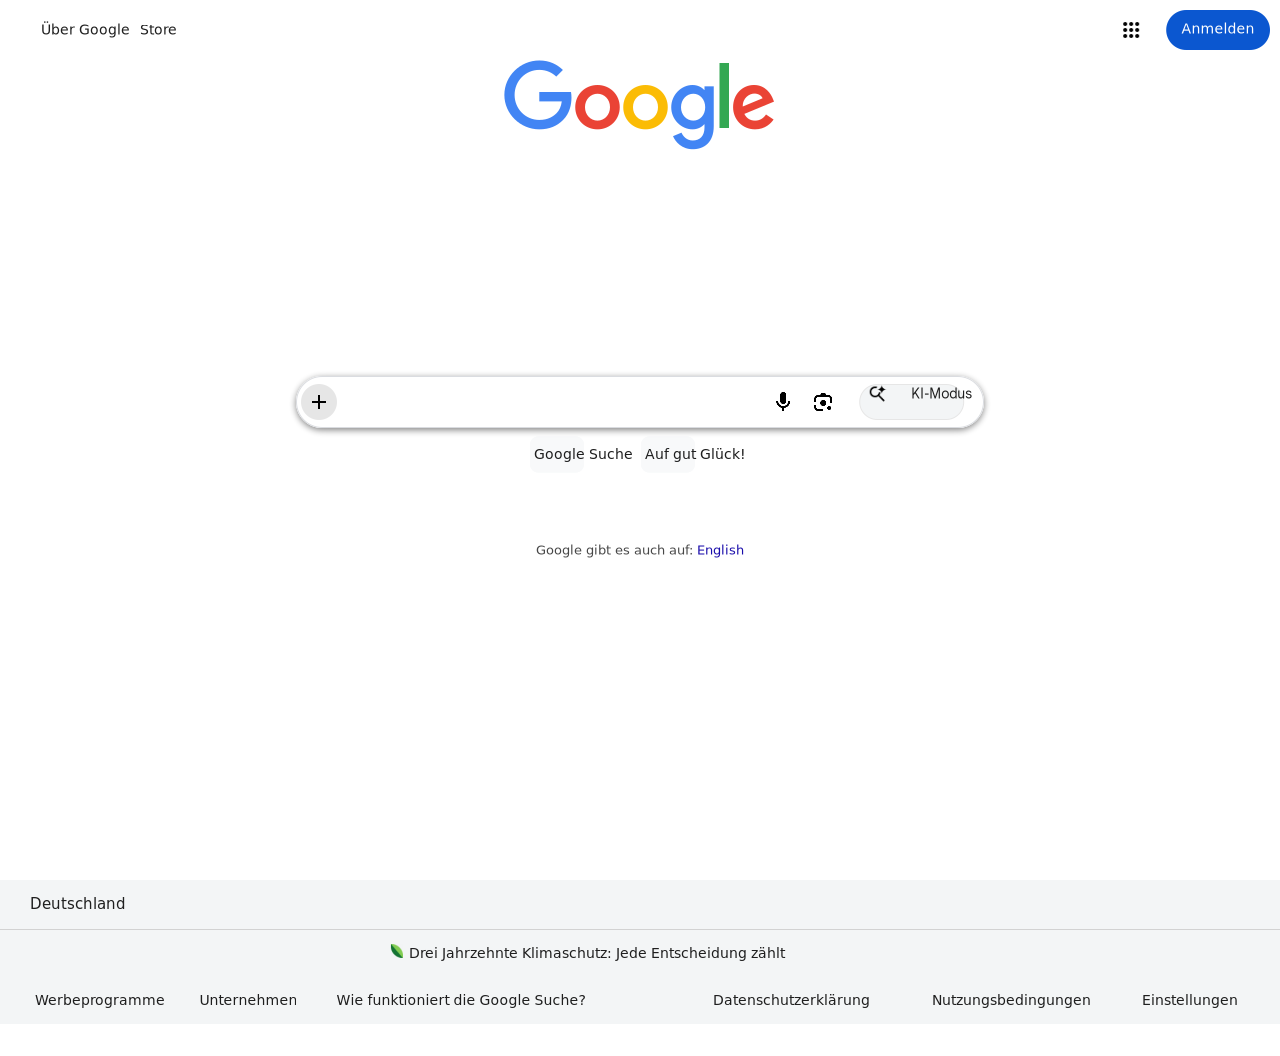
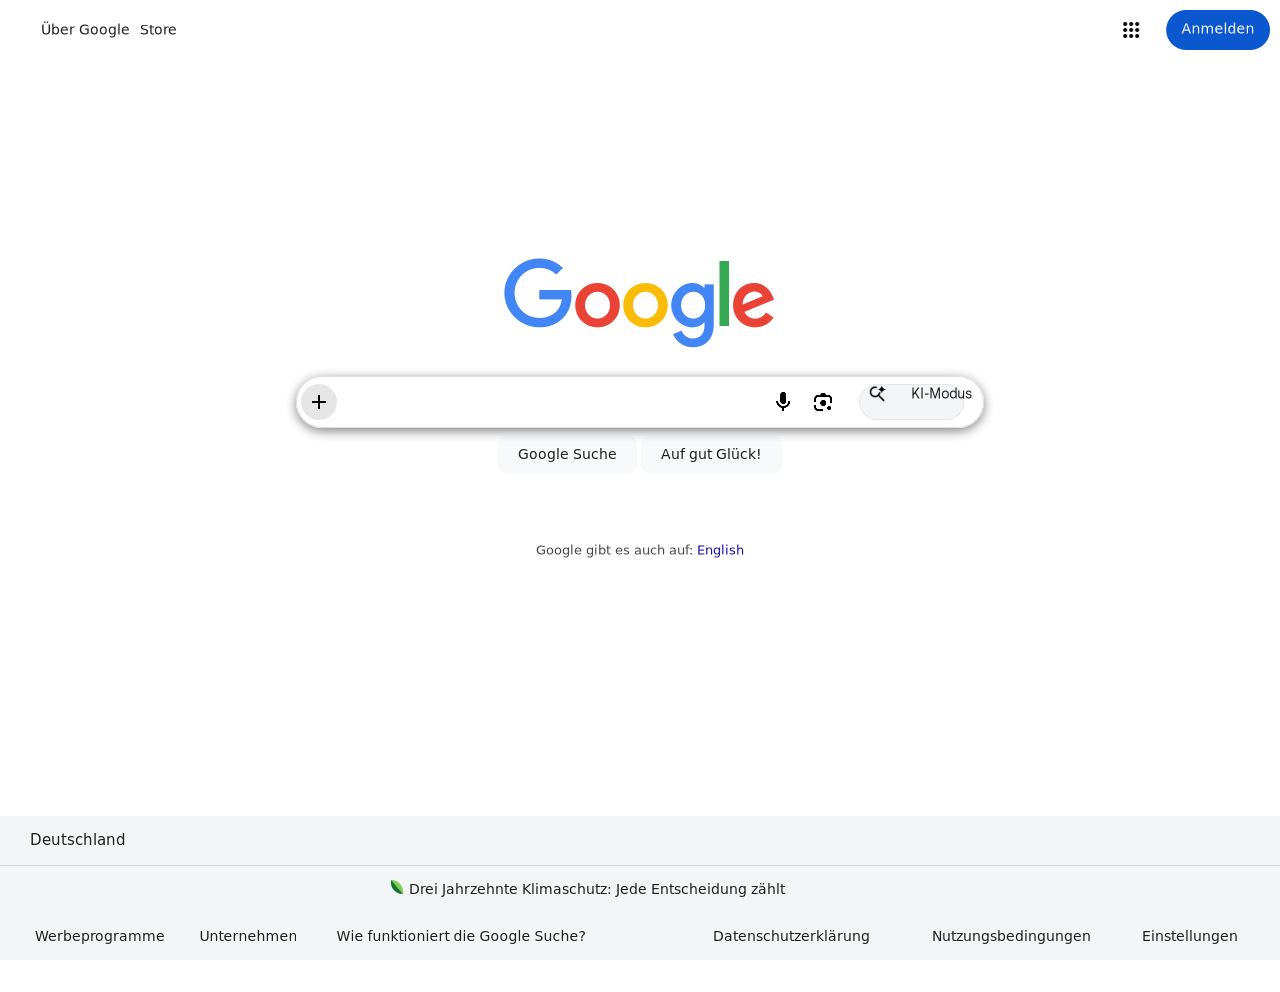
layout: clamp percentage-height bases by the containing block's min/max-height
height:100% inside a grid whose height is calc()-derived but capped by
max-height resolved against the uncapped value, so google.com's logo
cell grew past its 290px cap and pushed the bottom-aligned logo into
the search box at taller viewports. Refresh docs/screenshot.png with
the corrected homepage render.

diff --git a/src/layout.c b/src/layout.c
@@ -118,6 +118,25 @@ resolve_used_height(const ns_box *box, const ns_css_value *hv,
 }
 
 static double
+clamp_height_minmax_px(const ns_style *s, double h)
+{
+    if (!s || h < 0) return h;
+    const ns_css_value *mx = s->values[NS_CSS_MAX_HEIGHT];
+    if (mx && mx->kind == NS_CSS_V_LENGTH &&
+        mx->u.length.unit != NS_CSS_UNIT_PERCENT) {
+        double m = length_resolve(mx, 0, -1);
+        if (m >= 0 && h > m) h = m;
+    }
+    const ns_css_value *mn = s->values[NS_CSS_MIN_HEIGHT];
+    if (mn && mn->kind == NS_CSS_V_LENGTH &&
+        mn->u.length.unit != NS_CSS_UNIT_PERCENT) {
+        double m = length_resolve(mn, 0, -1);
+        if (m >= 0 && h < m) h = m;
+    }
+    return h;
+}
+
+static double
 containing_block_definite_height(const ns_box *box)
 {
     const ns_box *p = box ? box->parent : NULL;
@@ -144,12 +163,13 @@ containing_block_definite_height(const ns_box *box)
         double base = box_is_doc_root(p) ? ns_css_viewport_h()
                                          : containing_block_definite_height(p);
         if (base < 0) return -1;
-        if (h->kind == NS_CSS_V_CALC)
-            return h->u.calc.pct / 100.0 * base + h->u.calc.px;
-        return h->u.length.v * base / 100.0;
+        double ch = h->kind == NS_CSS_V_CALC
+            ? h->u.calc.pct / 100.0 * base + h->u.calc.px
+            : h->u.length.v * base / 100.0;
+        return clamp_height_minmax_px(p->style, ch);
     }
     if (p->content_height > 0) return p->content_height;
-    return length_resolve(h, 0, -1);
+    return clamp_height_minmax_px(p->style, length_resolve(h, 0, -1));
 }
 
 static double
@@ -8890,7 +8910,9 @@ layout_grid_areas(ns_box *box, double cw,
     const ns_css_value *hv_box = box->style ? box->style->values[NS_CSS_HEIGHT] : NULL;
     double row_basis = (hv_box && (hv_box->kind == NS_CSS_V_LENGTH ||
                                    hv_box->kind == NS_CSS_V_CALC))
-        ? resolve_used_height(box, hv_box, cw, -1) : -1;
+        ? clamp_height_minmax_px(box->style,
+                                 resolve_used_height(box, hv_box, cw, -1))
+        : -1;
     ns_css_tracks cols_buf = expand_auto_repeat(cols_src, cw, col_gap);
     int n_cols = cols_buf.n > 0 ? cols_buf.n : 1;
     double avail = cw - (n_cols > 1 ? col_gap * (n_cols - 1) : 0);
@@ -9138,7 +9160,9 @@ layout_grid(ns_box *box, double cw,
     const ns_css_value *hv_box = box->style ? box->style->values[NS_CSS_HEIGHT] : NULL;
     double row_basis = (hv_box && (hv_box->kind == NS_CSS_V_LENGTH ||
                                    hv_box->kind == NS_CSS_V_CALC))
-        ? resolve_used_height(box, hv_box, cw, -1) : -1;
+        ? clamp_height_minmax_px(box->style,
+                                 resolve_used_height(box, hv_box, cw, -1))
+        : -1;
 
     ns_css_tracks cols_buf = expand_auto_repeat(cols_src, cw, col_gap);
     const ns_css_tracks *cols = &cols_buf;
@@ -9586,7 +9610,9 @@ layout_grid(ns_box *box, double cw,
             ? box->style->values[NS_CSS_HEIGHT] : NULL;
         if (hv && (hv->kind == NS_CSS_V_LENGTH || hv->kind == NS_CSS_V_CALC) &&
             grid_rows->len > 0) {
-            double eh = resolve_used_height(box, hv, cw, -1);
+            double eh = clamp_height_minmax_px(box->style,
+                                               resolve_used_height(box, hv, cw,
+                                                                   -1));
             if (box->style &&
                 keyword_is(box->style->values[NS_CSS_BOX_SIZING], "border-box"))
                 eh -= box->padding.top + box->padding.bottom +
